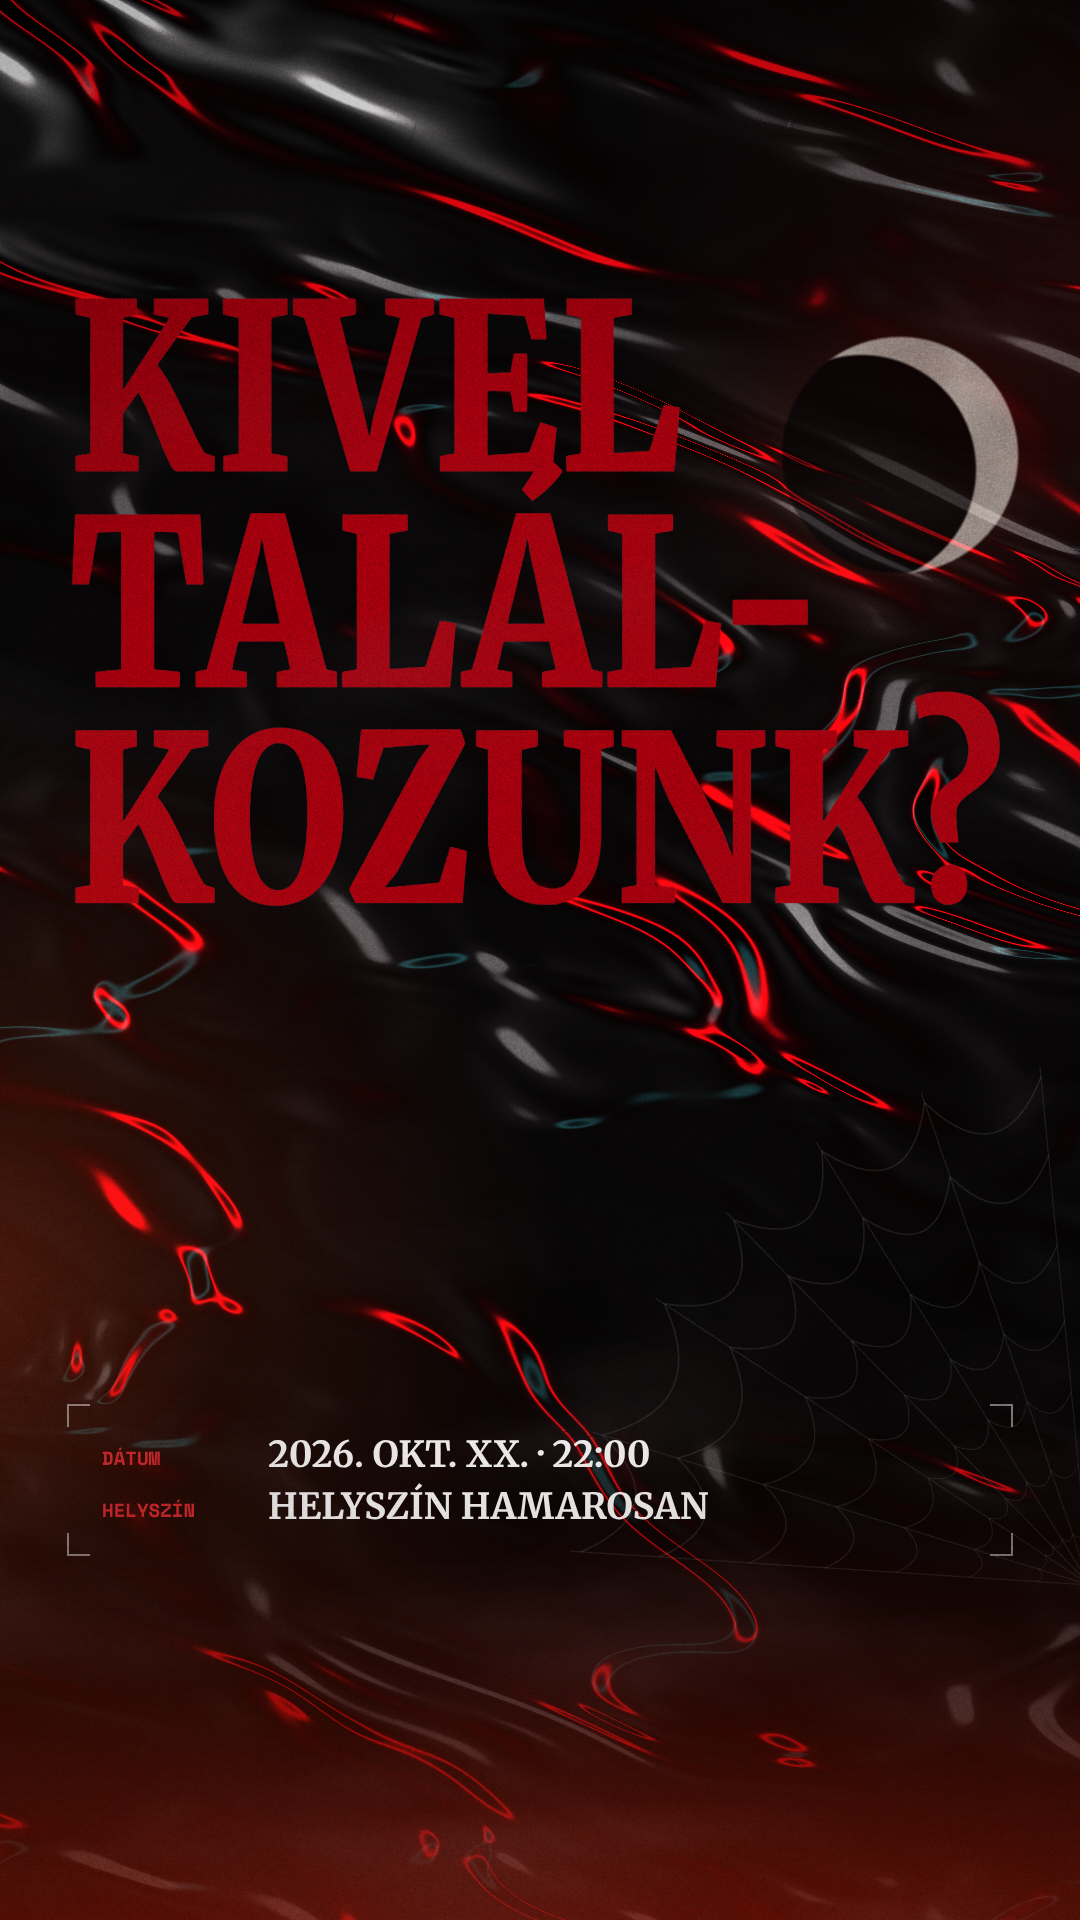
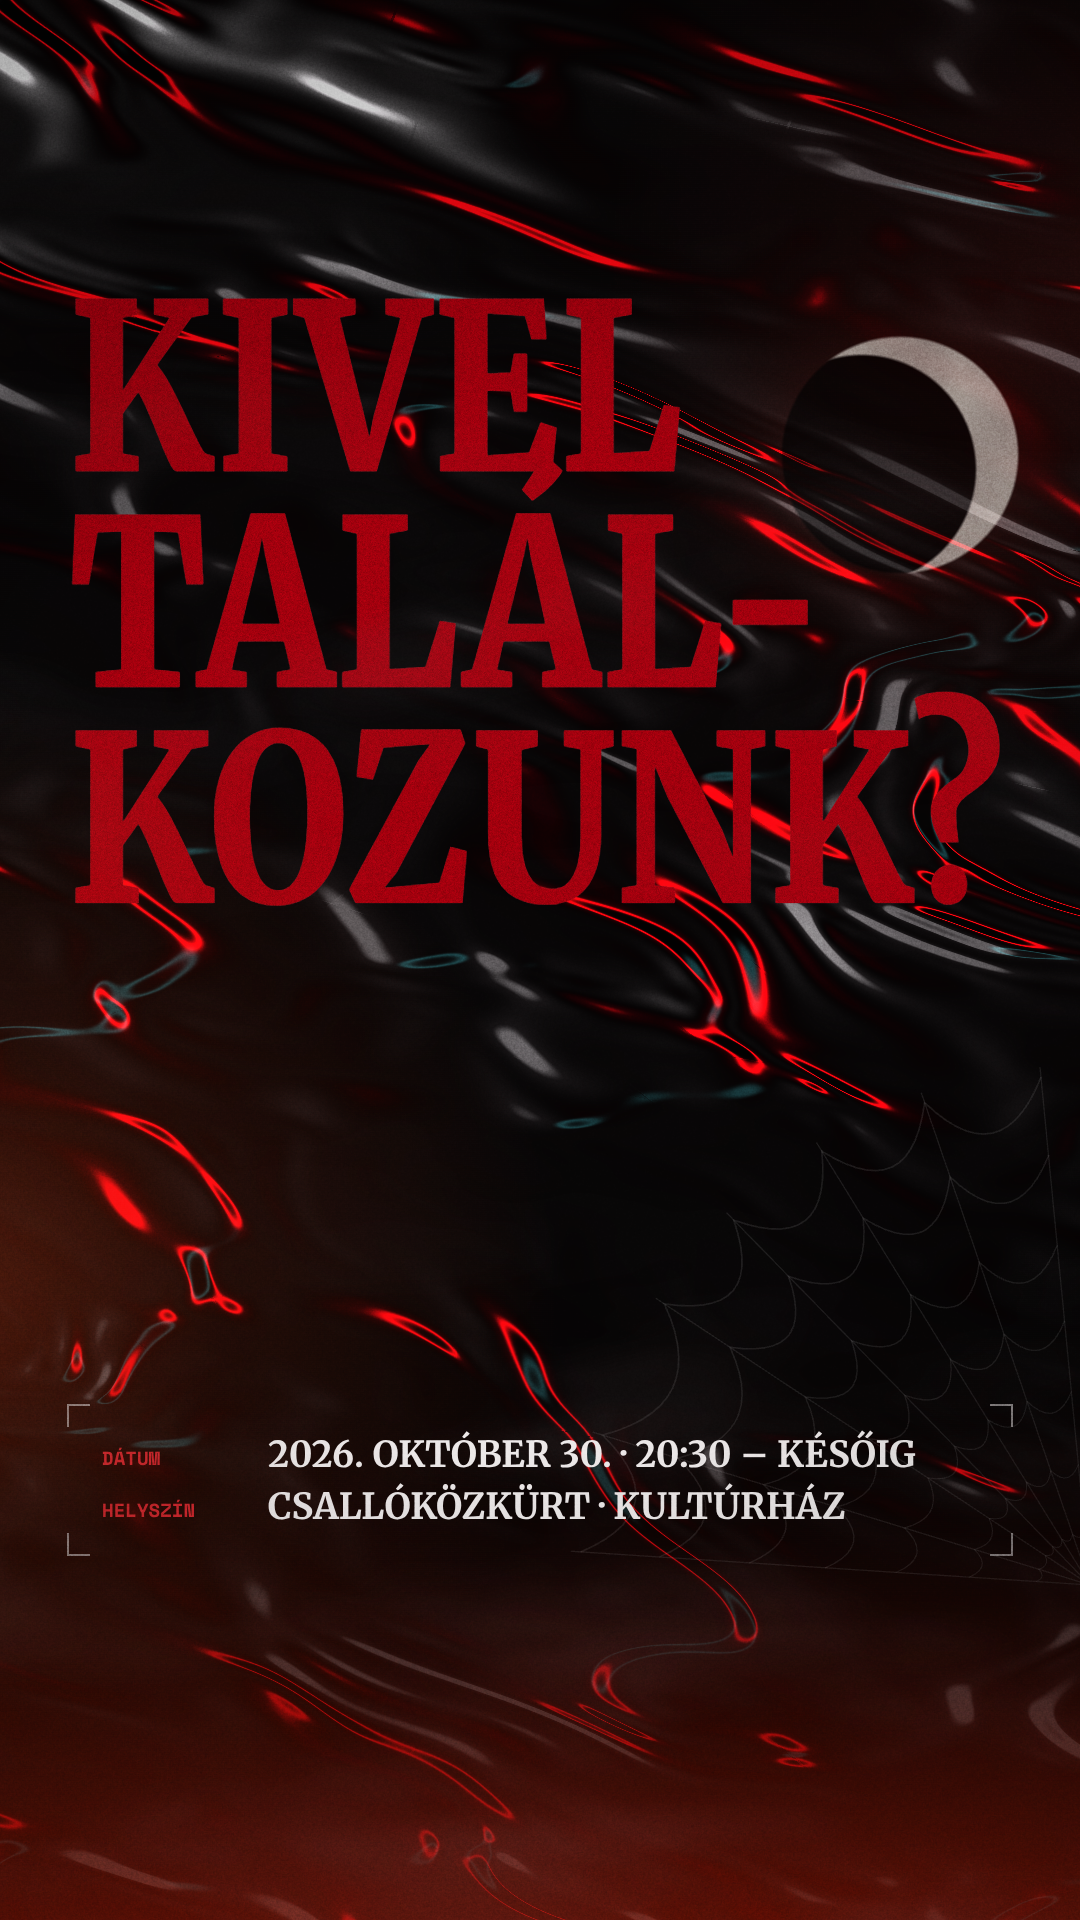
Set real date and venue: 2026. október 30. 20:30, Csallóközkürt Kultúrház
Claude-Session: https://claude.ai/code/session_018Cd2tPRf6vDfQvxZkFHLrH

Changed region(s): [[0.2444, 0.75, 0.8556, 0.8125]]

diff --git a/halloween-story/index.html b/halloween-story/index.html
@@ -50,8 +50,8 @@
       <button data-v="d">D · Minimal</button>
     </div>
     <div class="vname" id="vname"></div>
-    <label>Dátum <input type="text" id="date" value="2026. OKT. XX. · 22:00"></label>
-    <label>Helyszín <input type="text" id="loc" value="HELYSZÍN HAMAROSAN"></label>
+    <label>Dátum <input type="text" id="date" value="2026. OKTÓBER 30. · 20:30 – KÉSŐIG"></label>
+    <label>Helyszín <input type="text" id="loc" value="CSALLÓKÖZKÜRT · KULTÚRHÁZ"></label>
     <div class="row"><input type="checkbox" id="anim" checked> <span>Animáció (6 mp loop)</span></div>
     <div class="row"><input type="checkbox" id="safeT"> <span>IG safe zone megjelenítése</span></div>
     <div class="row"><input type="checkbox" id="guides" checked> <span>Dátum/helyszín jelölő keret</span></div>
